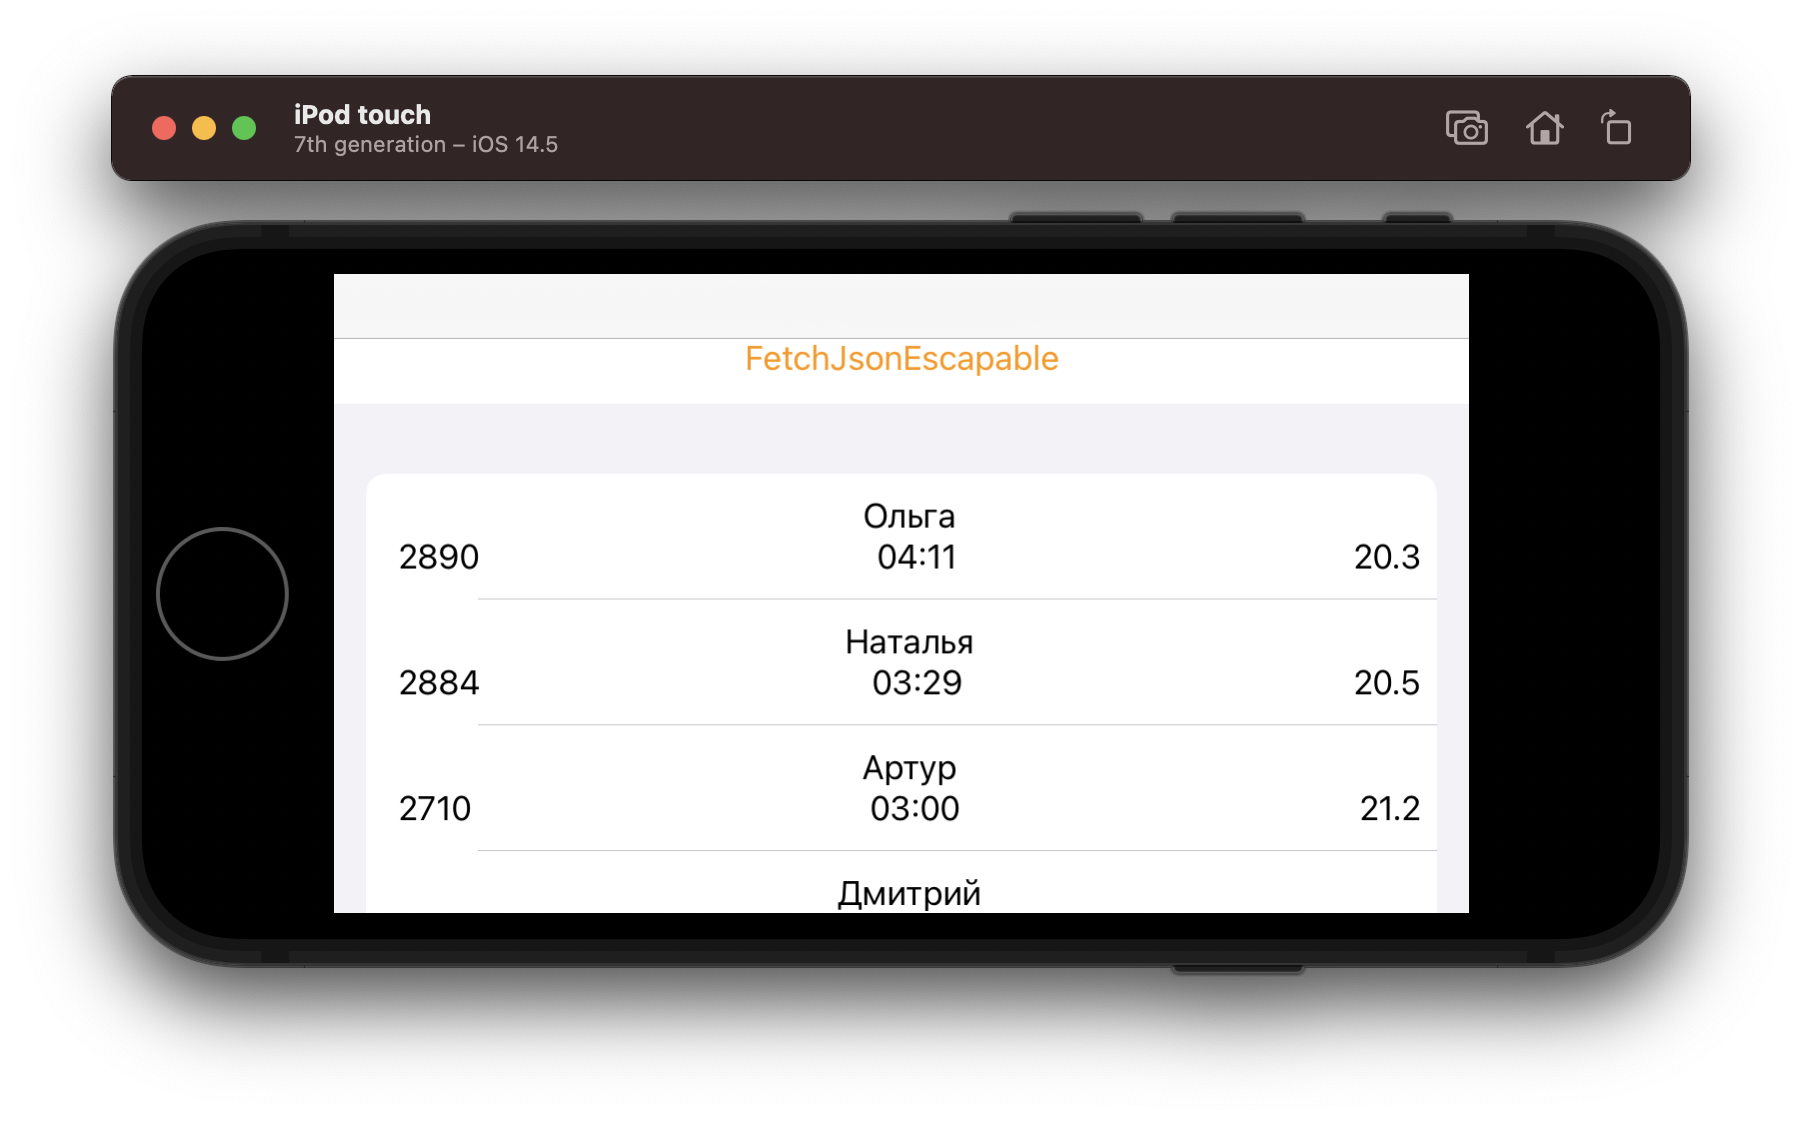
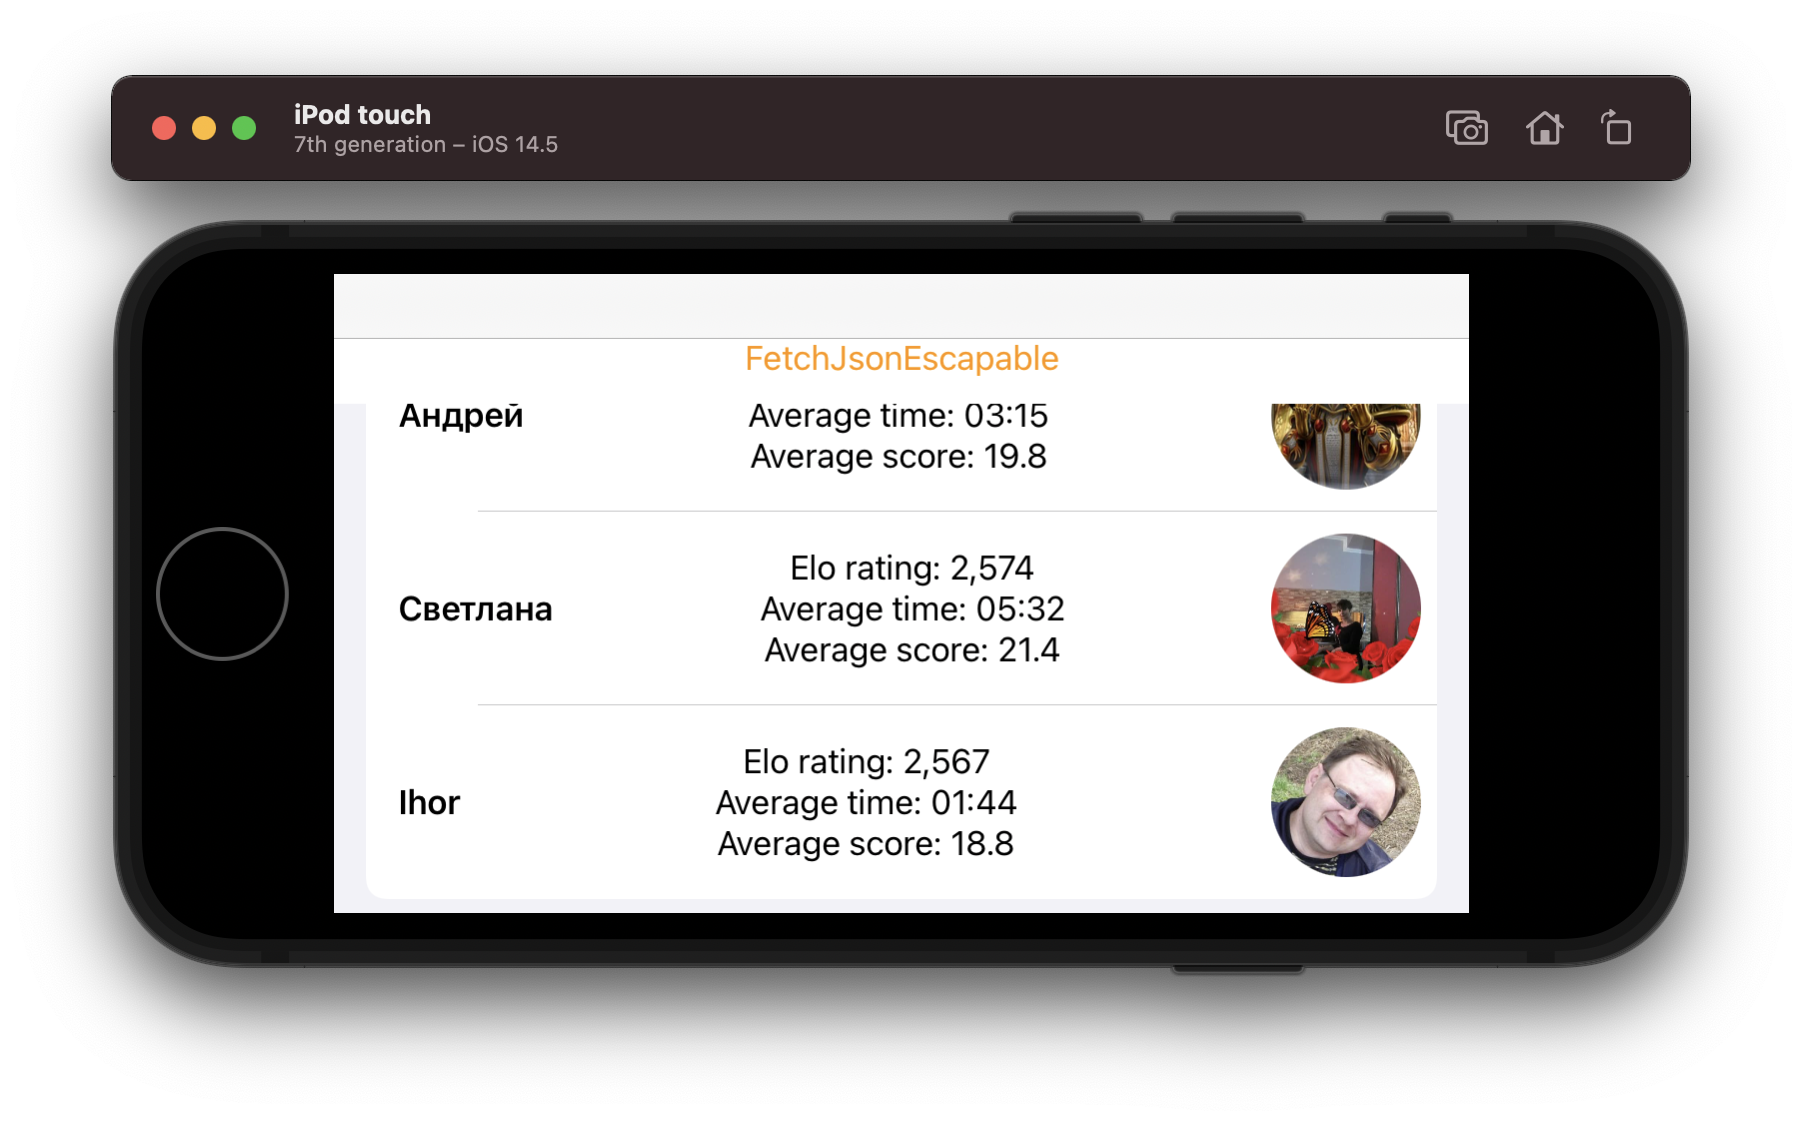
Add a view and view model for (currently always) downloading images - same as in https://github.com/SwiftfulThinking/SwiftUI-Continued-Learning/

diff --git a/FetchJsonEscapable/FetchJsonEscapable/ViewModels/DownloadingImageViewModel.swift b/FetchJsonEscapable/FetchJsonEscapable/ViewModels/DownloadingImageViewModel.swift
@@ -1,0 +1,62 @@
+//
+//  TopImageViewModel.swift
+//  FetchJsonEscapable
+//
+//  Created by Alexander Farber on 13.05.21.
+//
+
+import Foundation
+import SwiftUI
+import Combine
+
+class DownloadingImageViewModel: ObservableObject {
+    
+    @Published var image: UIImage? = nil
+    @Published var isLoading: Bool = false
+    
+    var cancellables = Set<AnyCancellable>()
+    //let manager = PhotoModelFileManager.instance
+    
+    let urlString: String
+    let imageKey: String
+    
+    init(url: String, key: String) {
+        urlString = url
+        imageKey = key
+        getImage()
+    }
+    
+    func getImage() {
+//        if let savedImage = manager.get(key: imageKey) {
+//            image = savedImage
+//            print("Getting saved image!")
+//        } else {
+            downloadImage()
+            print("Downloading image now!")
+//        }
+    }
+    
+    func downloadImage() {
+        isLoading = true
+        guard let url = URL(string: urlString) else {
+            isLoading = false
+            return
+        }
+        
+        URLSession.shared.dataTaskPublisher(for: url)
+            .map { UIImage(data: $0.data) }
+            .receive(on: DispatchQueue.main)
+            .sink { [weak self] (_) in
+                self?.isLoading = false
+            } receiveValue: { [weak self] (returnedImage) in
+                guard
+                    let self = self,
+                    let image = returnedImage else { return }
+                
+                self.image = image
+                //self.manager.add(key: self.imageKey, value: image)
+            }
+            .store(in: &cancellables)
+    }
+    
+}

diff --git a/FetchJsonEscapable/FetchJsonEscapable/Views/TopRow.swift b/FetchJsonEscapable/FetchJsonEscapable/Views/TopRow.swift
@@ -11,17 +11,18 @@ struct TopRow: View {
     let model:Top
     
     var body: some View {
-        
-        VStack {
+        HStack {
             Text(model.given)
-            
-            HStack {
-                Text(String(model.elo))
-                Spacer()
-                Text(model.avg_time ?? "")
-                Spacer()
-                Text(String(model.avg_score ?? 0))
+                .font(.headline)
+            Spacer()
+            VStack {
+                Text("Elo rating: \(model.elo)")
+                Text("Average time: \(model.avg_time ?? "")")
+                Text("Average score: \(String(model.avg_score ?? 0.0))")
             }
+            Spacer()
+            DownloadingImage(url: model.photo ?? "TODO", key: "\(model.id)")
+                .frame(width: 75, height: 75)
         }
     }
 }
@@ -29,15 +30,15 @@ struct TopRow: View {
 struct TopRow_Previews: PreviewProvider {
     static var previews: some View {
         TopRow(model: Top(
-                uid: 19265,
-                elo: 2659,
-                given: "Alex",
-                photo: "https://avt-20.foto.mail.ru/mail/farber72/_avatar180",
-                motto: nil,
-                avg_score: 18.8,
-                avg_time: "03:06"
-            ))
-            .padding()
-            .previewLayout(.sizeThatFits)
+            uid: 19265,
+            elo: 2659,
+            given: "Alex",
+            photo: "https://avt-20.foto.mail.ru/mail/farber72/_avatar180",
+            motto: nil,
+            avg_score: 18.8,
+            avg_time: "03:06"
+        ))
+        .padding()
+        .previewLayout(.sizeThatFits)
     }
 }

diff --git a/FetchJsonEscapable/FetchJsonEscapable/Views/DownloadingImage.swift b/FetchJsonEscapable/FetchJsonEscapable/Views/DownloadingImage.swift
@@ -1,0 +1,39 @@
+//
+//  TopImageView.swift
+//  FetchJsonEscapable
+//
+//  Created by Alexander Farber on 13.05.21.
+//
+
+import SwiftUI
+
+struct DownloadingImage: View {
+    @StateObject var loader: DownloadingImageViewModel
+    
+    init(url: String, key: String) {
+        _loader = StateObject(wrappedValue: DownloadingImageViewModel(url: url, key: key))
+    }
+    
+    var body: some View {
+        ZStack {
+            if loader.isLoading {
+                ProgressView()
+            } else if let image = loader.image {
+                Image(uiImage: image)
+                    .resizable()
+                    .aspectRatio(contentMode: .fill)
+                    .clipShape(Circle())
+            } else {
+                // TODO show placeholder image
+            }
+        }
+    }
+}
+
+struct TopImageView_Previews: PreviewProvider {
+    static var previews: some View {
+        DownloadingImage(url: "https://via.placeholder.com/600/92c952", key: "123")
+            .frame(width: 75, height: 75)
+            .previewLayout(.sizeThatFits)
+    }
+}
